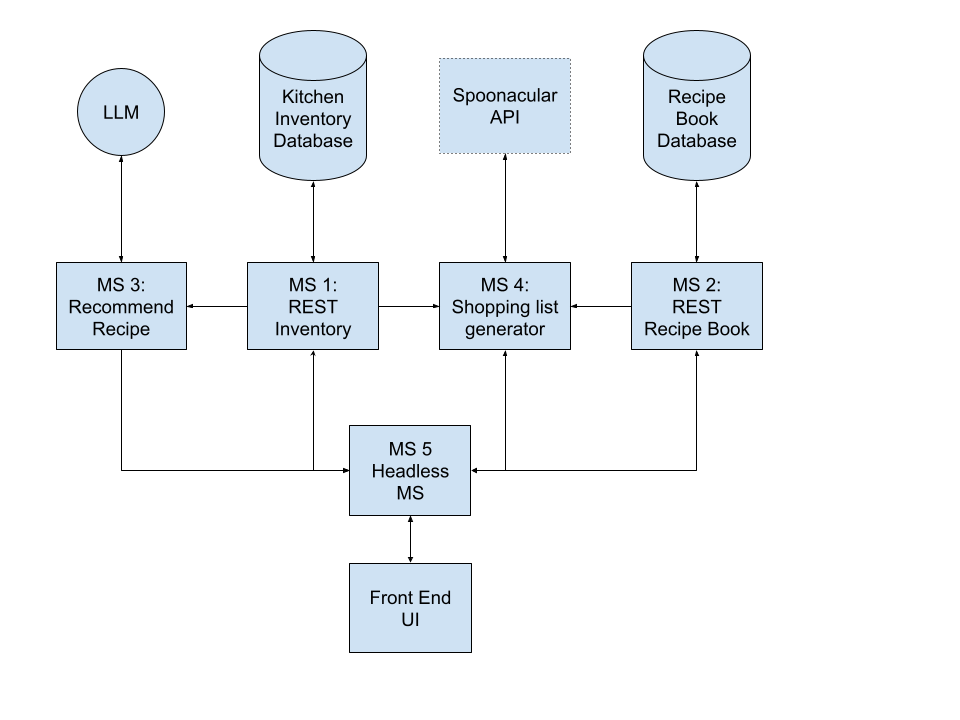
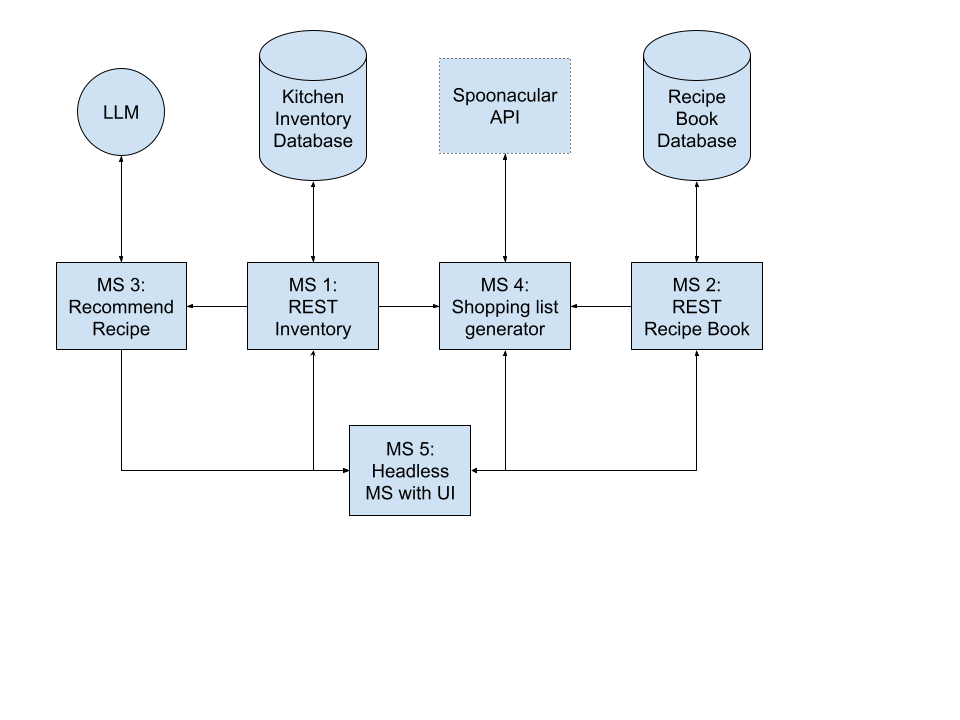
Put UI into MS 5

Changed region(s): [[0.3438, 0.7639, 0.5, 0.9167], [0.375, 0.6722, 0.4688, 0.7028], [0.4062, 0.6111, 0.4688, 0.6417]]

diff --git a/README.md b/README.md
@@ -26,7 +26,8 @@ This project is a simple Recipe Book and Kitchen Inventory service. Recipes and 
     - Required ingredients - Ingredients in stock = List of missing materials. 
     - Generates a shopping list based on the list of missing materials using [Spoonacular API-Compute Shopping List](https://spoonacular.com/food-api/docs#Compute-Shopping-List)  
 
-- [ ] MS 5: Headless MS
+- [ ] MS 5: Headless MS  
+    - MS 5 contains UI.
     - MS 5 is a headless microservice that integrates functionalities from Microservices 1, 2, 3, and 4, providing a unified set of APIs for the frontend.  
 
 
